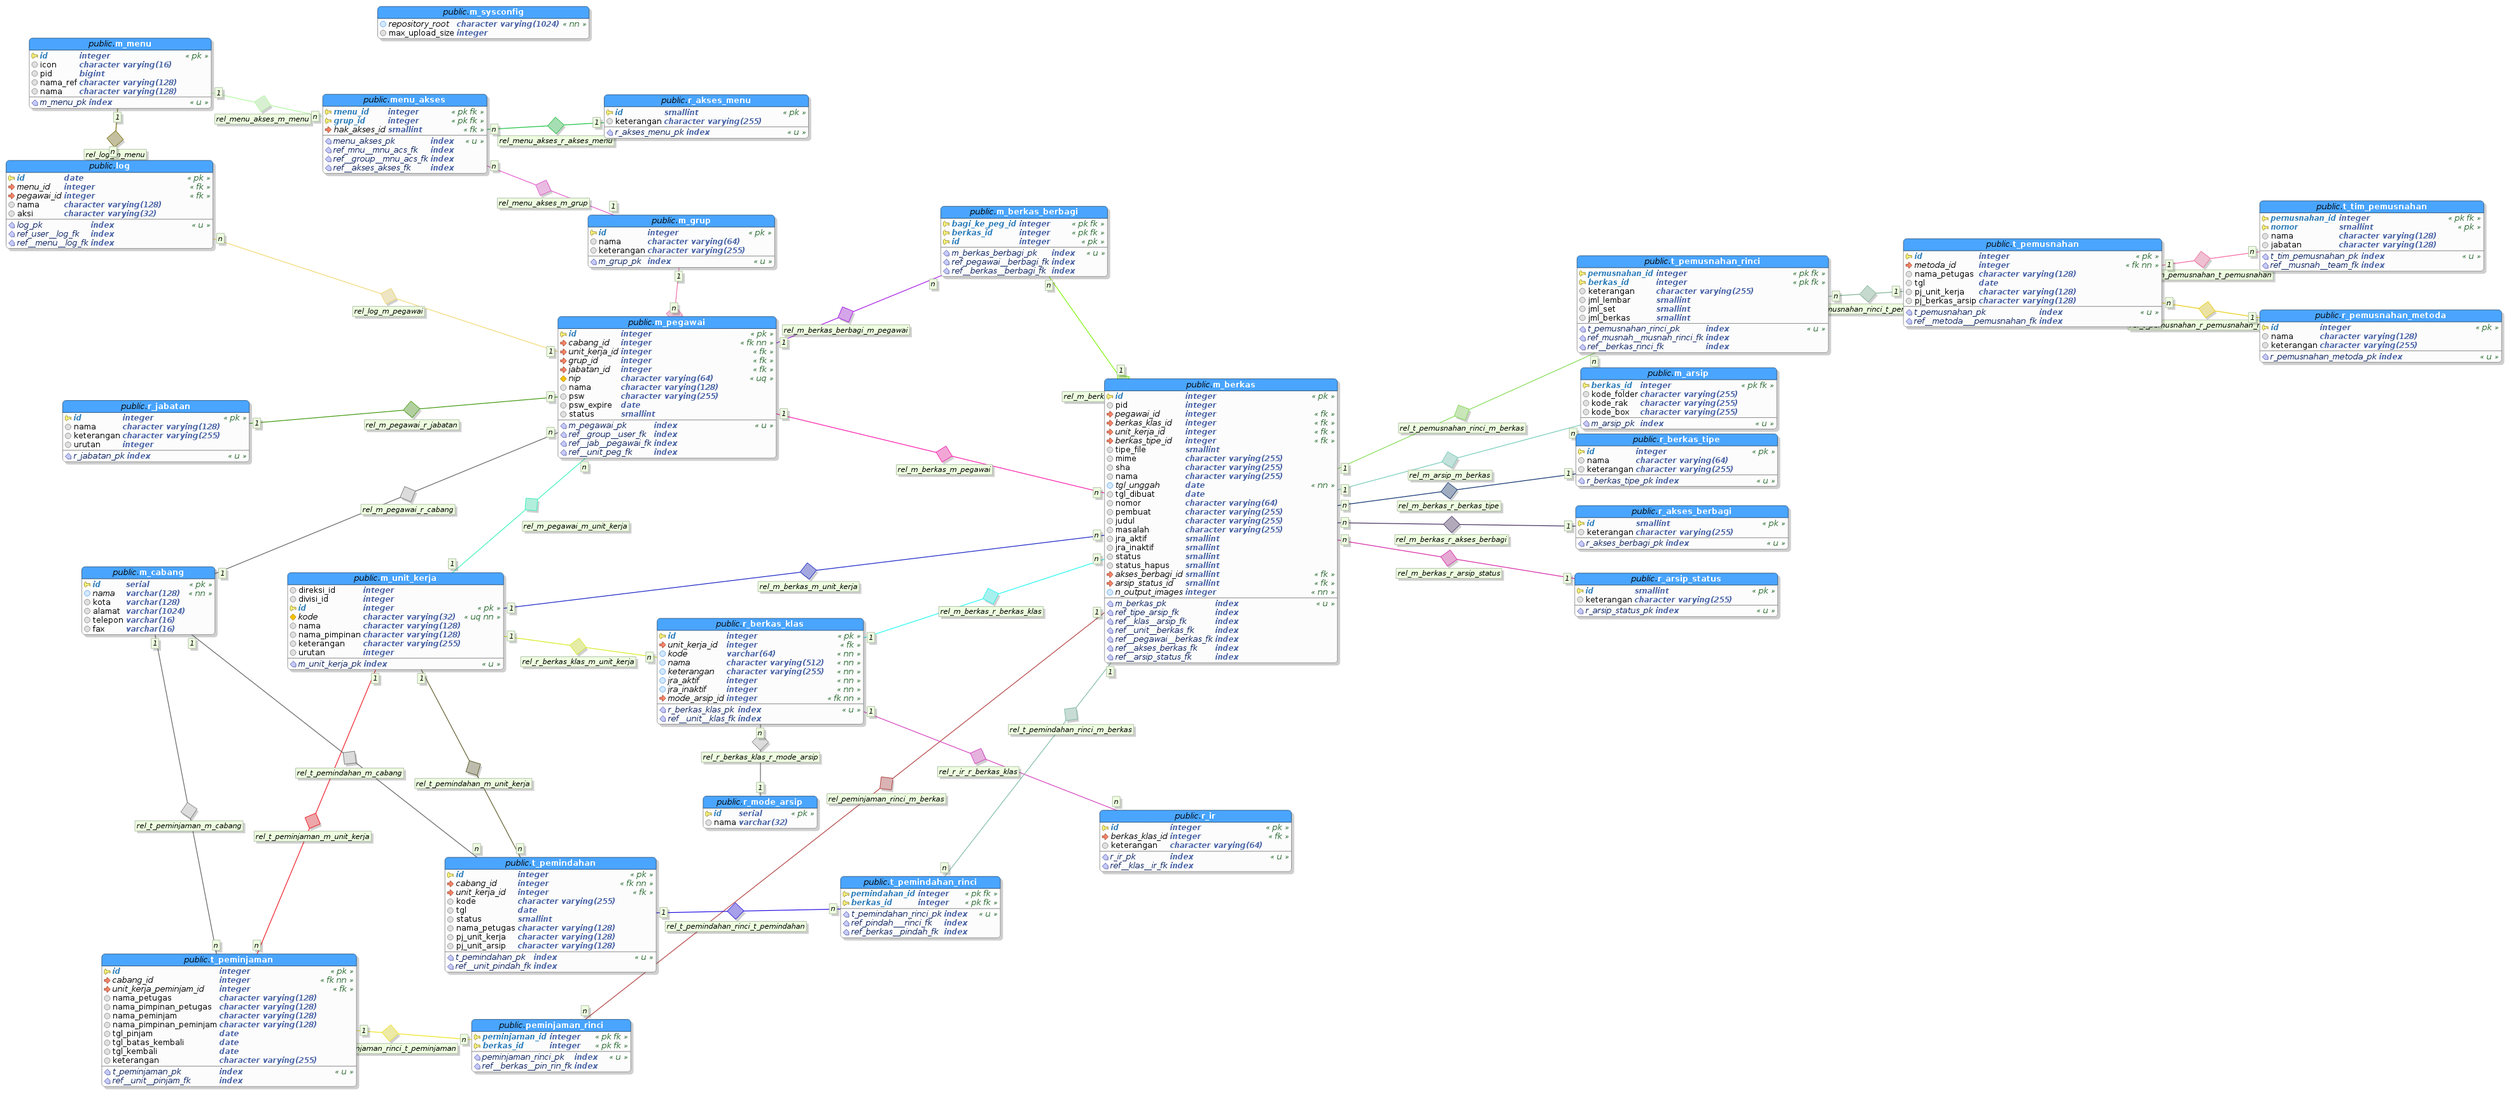
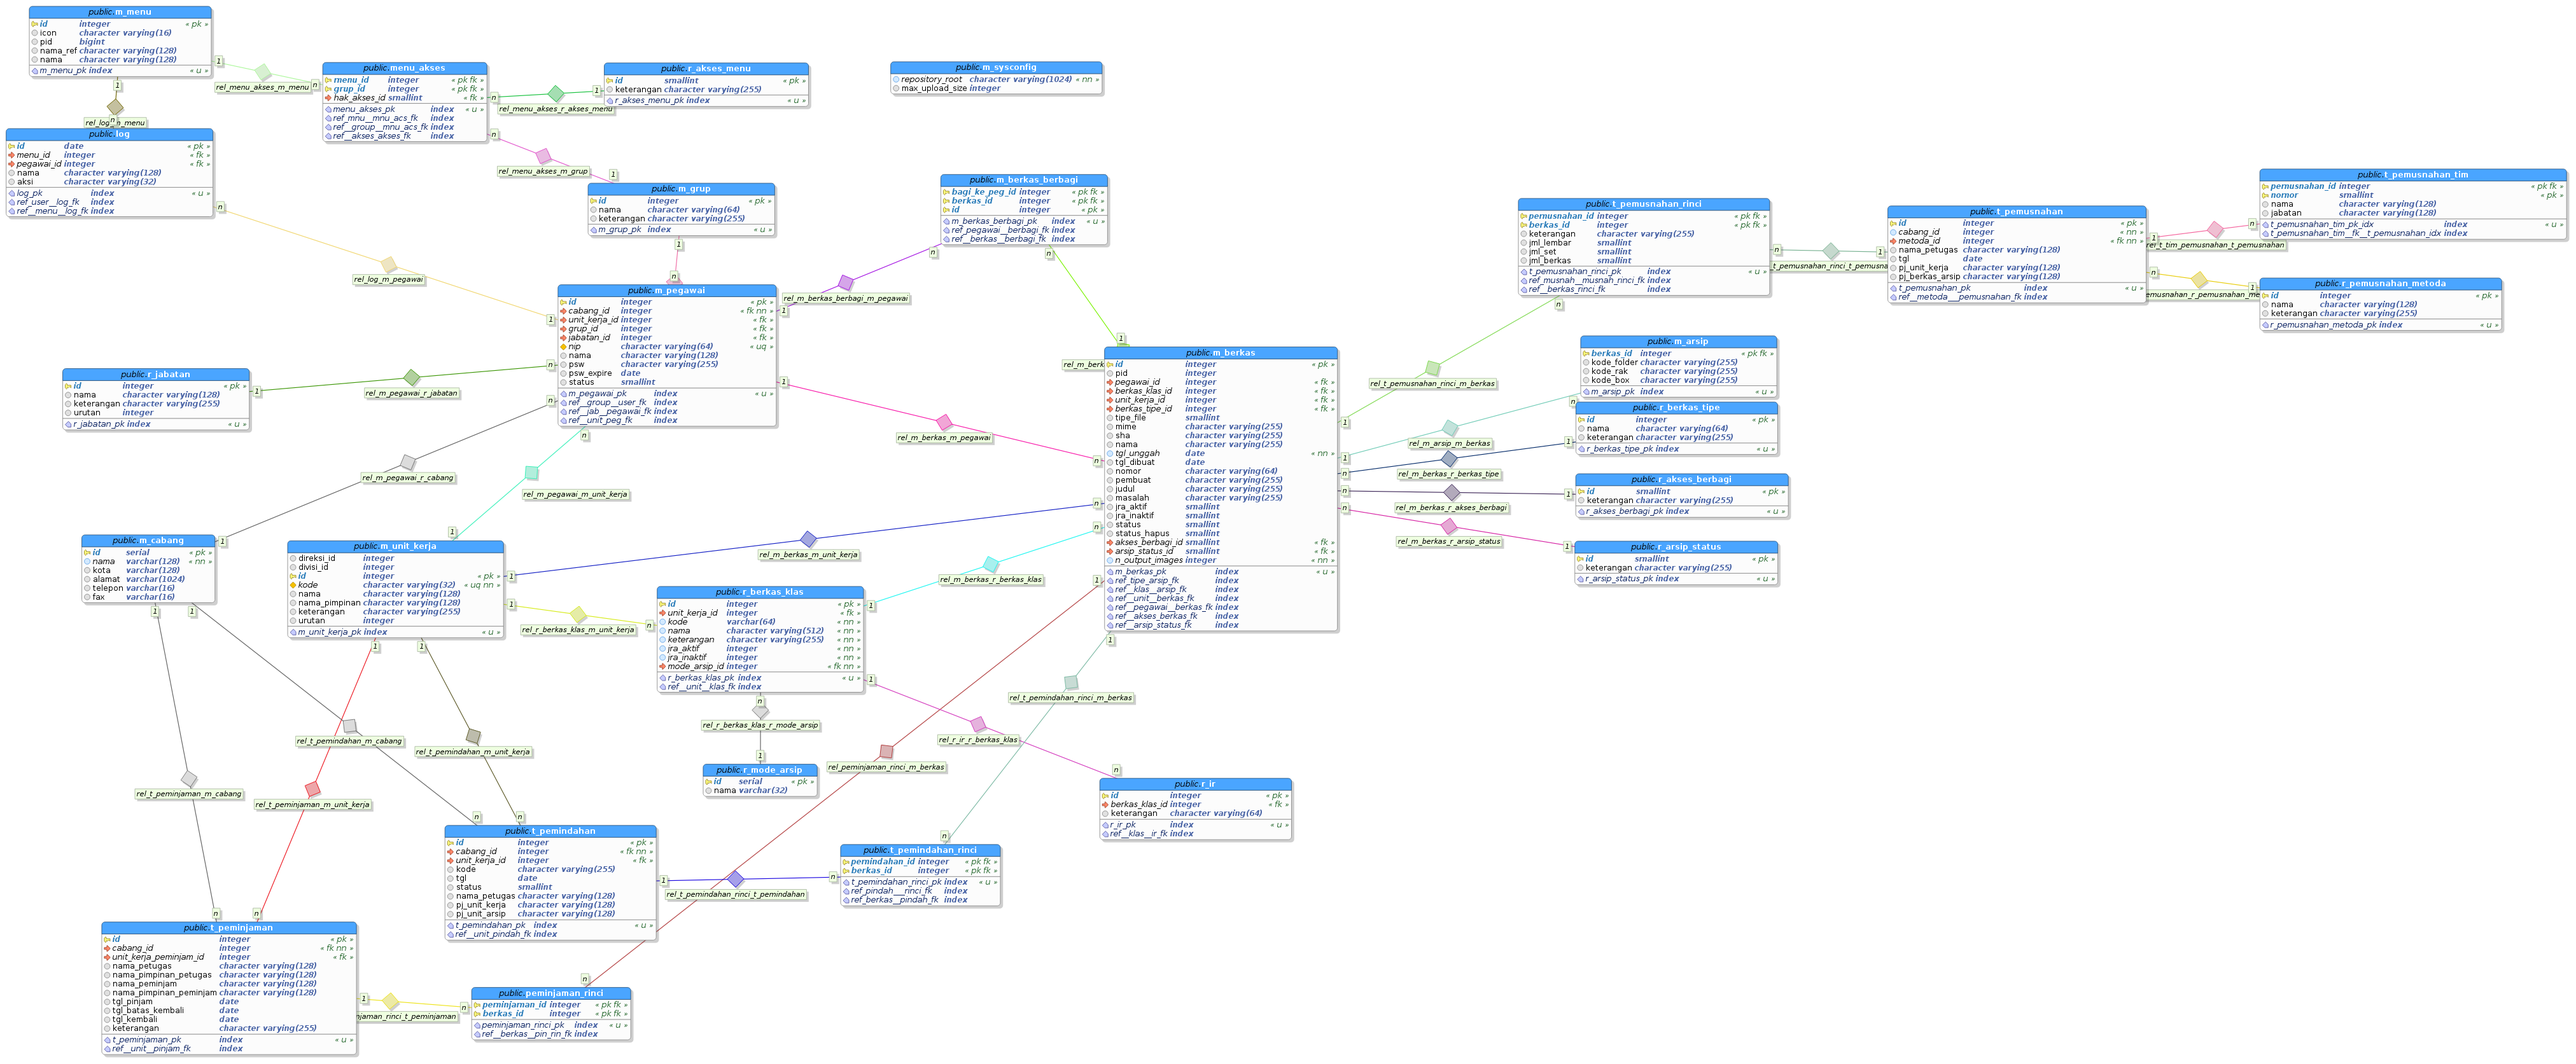
pemusnahan: Refactoring file names to order it by prefix.
Also to match with table name in database.

Changed region(s): [[0.0, 0.0, 0.9975, 0.9946], [0.4052, 0.7149, 0.5299, 0.8081]]

diff --git a/app/store/MetodaPemusnahan.js b/app/store/MetodaPemusnahan.js
@@ -16,10 +16,10 @@ Ext.define ('Earsip.store.MetodaPemusnahan', {
 ,	proxy		: {
 		type		: 'ajax'
 	,	api			: {
-			read		: 'data/metodapemusnahan.jsp'
-		,	create		: 'data/metodapemusnahan_submit.jsp?action=create'
-		,	update		: 'data/metodapemusnahan_submit.jsp?action=update'
-		,	destroy		: 'data/metodapemusnahan_submit.jsp?action=destroy'
+			read		: 'data/pemusnahan_metoda.jsp'
+		,	create		: 'data/pemusnahan_metoda_submit.jsp?action=create'
+		,	update		: 'data/pemusnahan_metoda_submit.jsp?action=update'
+		,	destroy		: 'data/pemusnahan_metoda_submit.jsp?action=destroy'
 		}
 	,	reader		: {
 			type		: 'json'

diff --git a/app/store/TimPemusnahan.js b/app/store/TimPemusnahan.js
@@ -16,8 +16,8 @@ Ext.define ('Earsip.store.TimPemusnahan', {
 		type		: 'ajax'
 	,	id			: 'timpemusnahan'
 	,	api			: {
-			read		: 'data/timpemusnahan.jsp'
-		,	destroy		: 'data/timpemusnahan_submit.jsp?action=destroy'
+			read		: 'data/pemusnahan_tim.jsp'
+		,	destroy		: 'data/pemusnahan_tim_submit.jsp?action=destroy'
 		}
 	,	reader		: {
 			type		: 'json'

diff --git a/app/store/PemusnahanRinci.js b/app/store/PemusnahanRinci.js
@@ -19,8 +19,8 @@ Ext.define ('Earsip.store.PemusnahanRinci', {
 ,	proxy		: {
 		type		: 'ajax'
 	,	api			: {
-			read		: 'data/pemusnahanrinci.jsp'
-		,	destroy		: 'data/pemusnahanrinci_submit.jsp?action=destroy'
+			read		: 'data/pemusnahan_rinci.jsp'
+		,	destroy		: 'data/pemusnahan_rinci_submit.jsp?action=destroy'
 		}
 	,	reader		: {
 			type		: 'json'

diff --git a/app/view/Pemusnahan.js b/app/view/Pemusnahan.js
@@ -410,7 +410,7 @@ Ext.define ('Earsip.view.Pemusnahan', {
 		var proxy	= store.getProxy ();
 		var org_url = proxy.api.read;
 
-		proxy.api.read	= 'data/caripemusnahan.jsp';
+		proxy.api.read	= 'data/pemusnahan_cari.jsp';
 
 		store.load ({
 			params	:	form.getValues ()

diff --git a/app/view/CariPemusnahanWin.js b/app/view/CariPemusnahanWin.js
@@ -10,7 +10,7 @@ Ext.define ('Earsip.view.CariPemusnahanWin', {
 ,	items		: [{
 		xtype		: 'form'
 	,	itemId		: 'caripemusnahan_form'
-	,	url			: 'data/caripemusnahan.jsp'
+	,	url			: 'data/pemusnahan_cari.jsp'
 	,	plain		: false
 	,	autoScroll	: true
 	,	frame		: true
